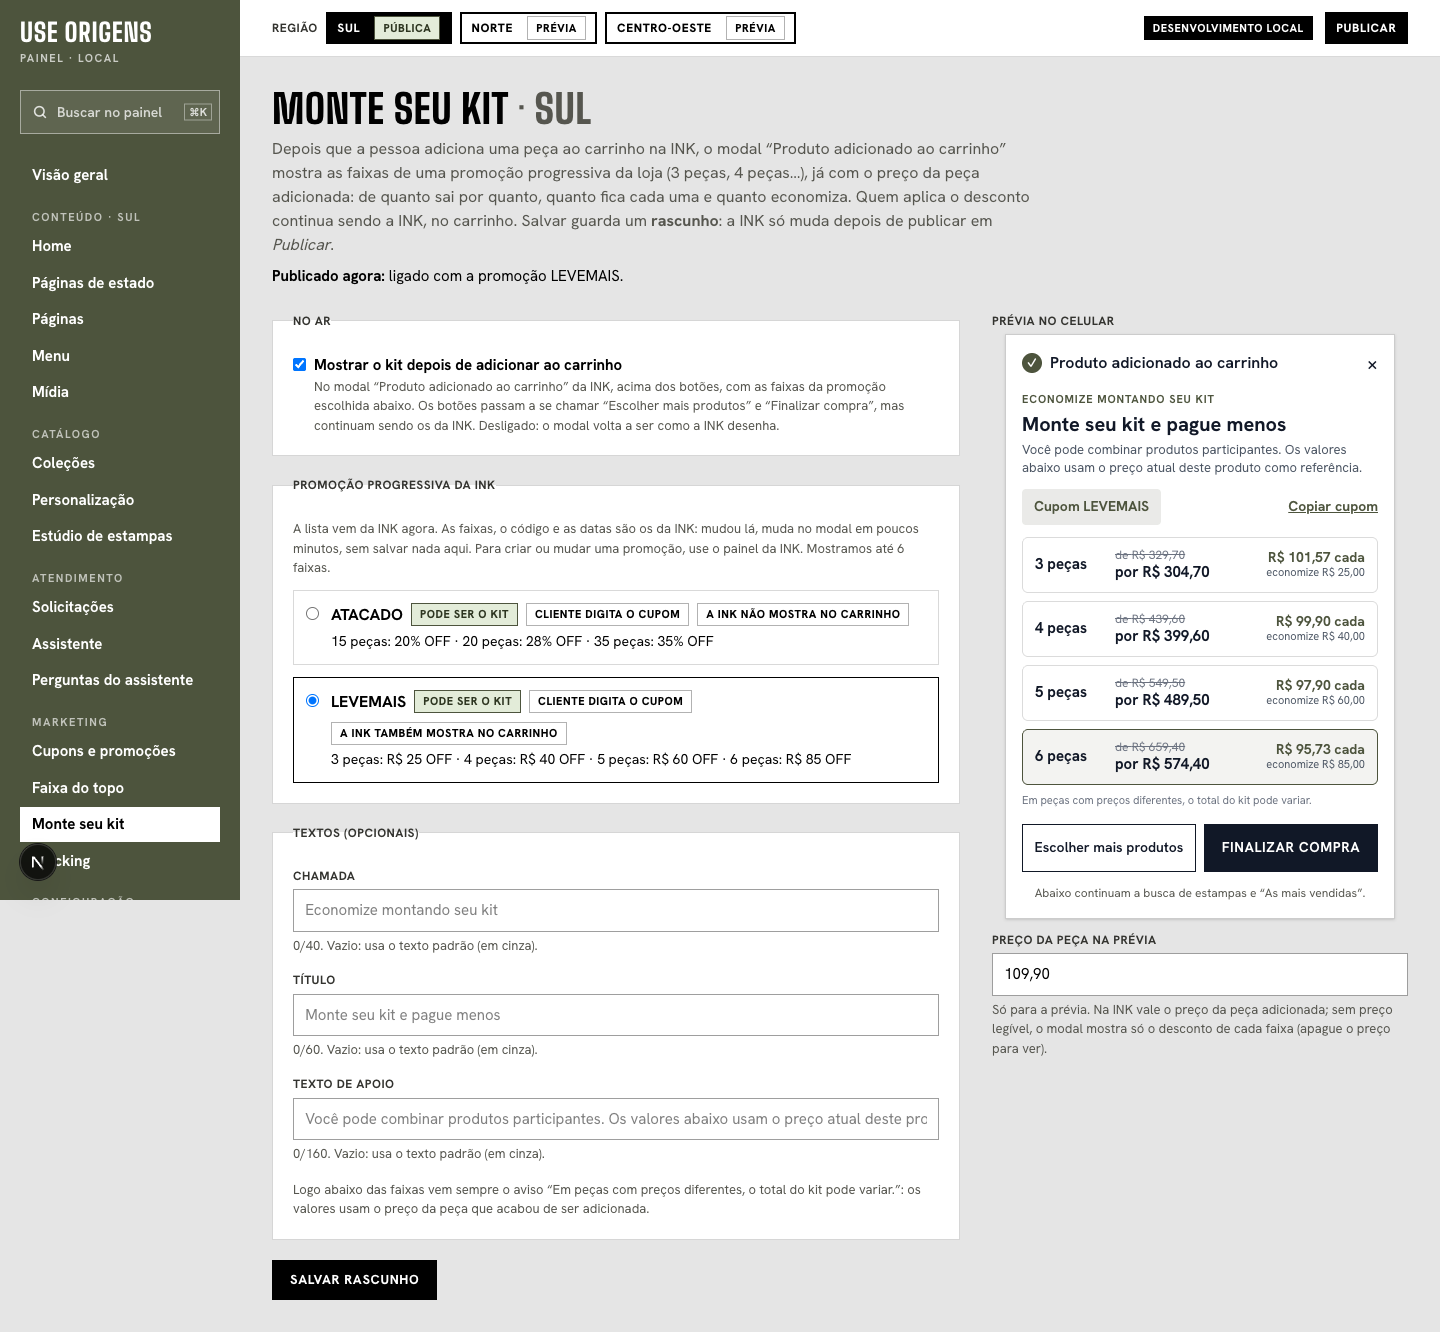
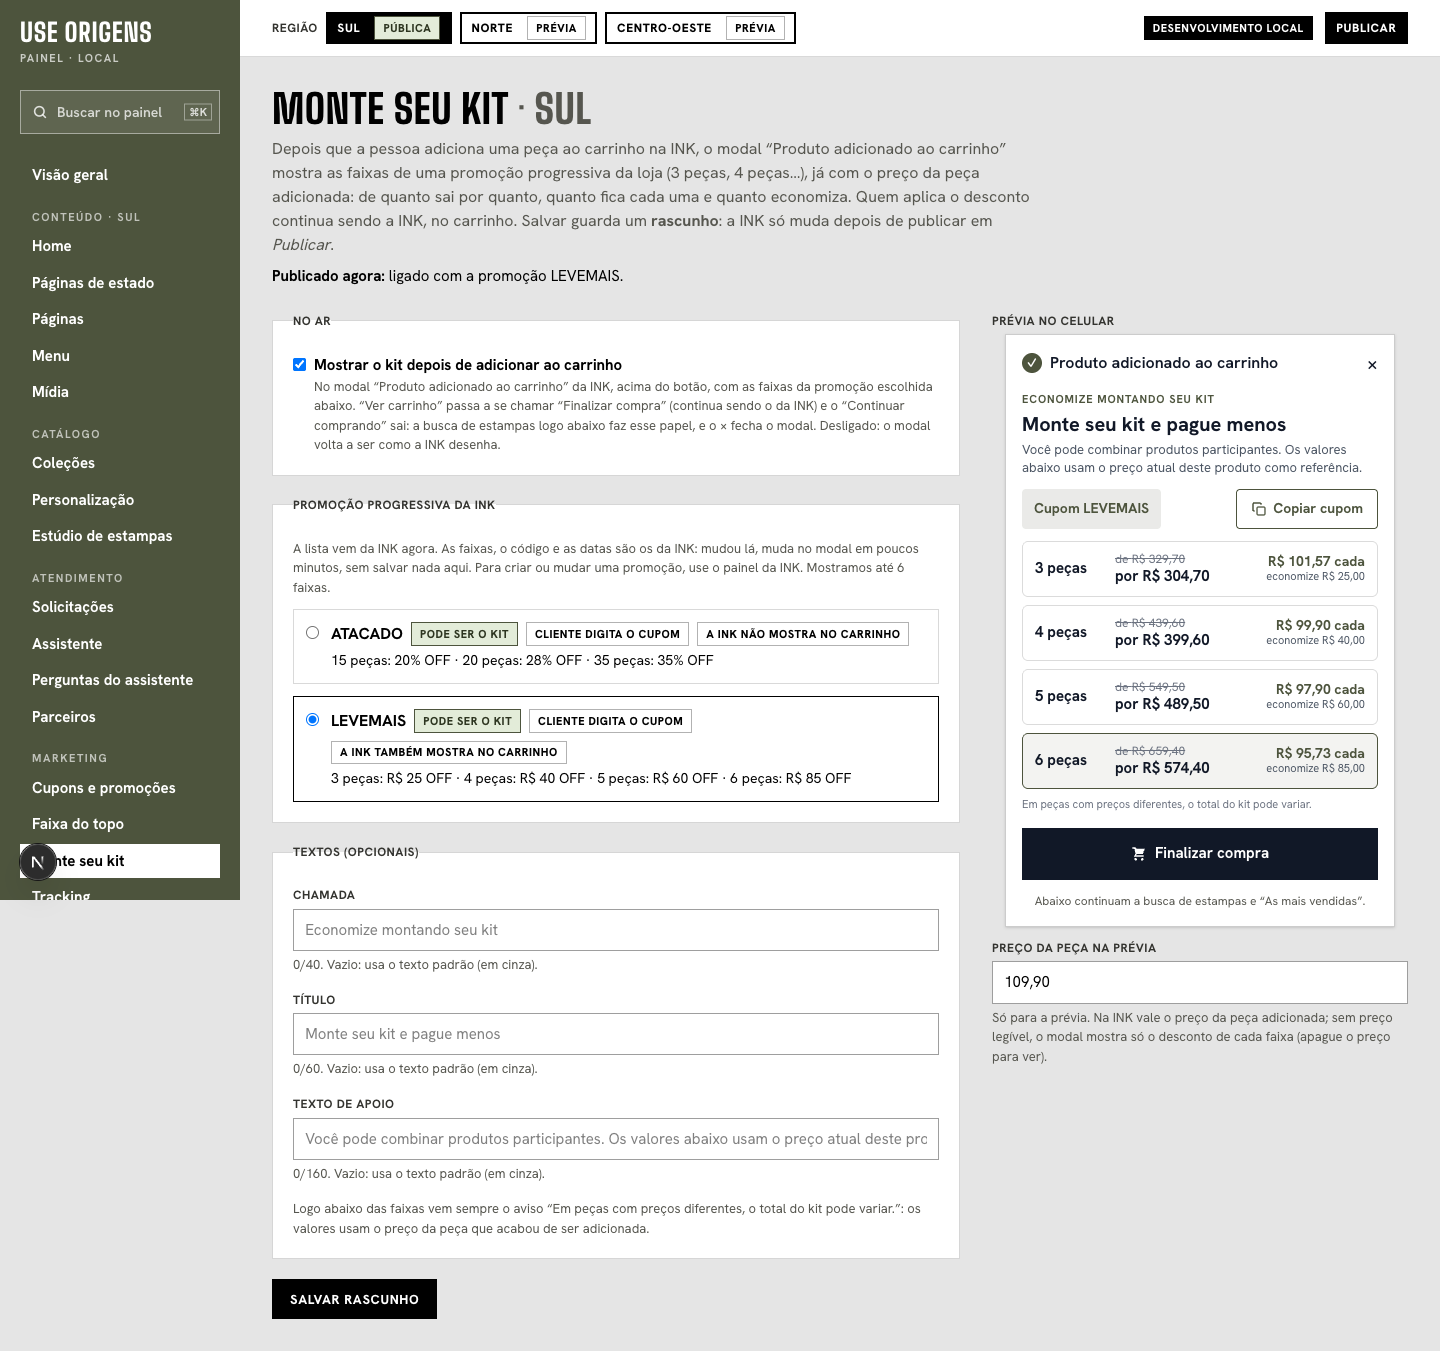
fix(storefront): prévia do kit com um botão só e "Copiar cupom" como botão
Acompanha o Worker (worker-lojas #46): "Continuar comprando" sai do modal enquanto
há kit (a busca logo abaixo faz esse papel), "Finalizar compra" na largura toda e
"Copiar cupom" com cara de botão. Texto do painel e doc atualizados.

diff --git a/src/components/admin/PostAddKitPreview.tsx b/src/components/admin/PostAddKitPreview.tsx
@@ -21,11 +21,16 @@ export function PostAddKitPreview({ eyebrow, title, lead, code, auto, kind, tier
         <p className="text-[0.6875rem] font-bold uppercase tracking-[0.08em]" style={{ color: accent }}>{eyebrow}</p>
         <p className="mt-1 text-[1.25rem] font-bold leading-tight">{title}</p>
         <p className="mt-1 text-[0.8125rem] leading-snug text-[#4b5563]">{lead}</p>
-        <div className="mt-3 flex items-center justify-between gap-2">
-          <span className="inline-flex min-h-9 items-center rounded-[4px] px-3 text-[0.875rem] font-bold" style={{ background: `color-mix(in srgb, ${accent} 12%, #fff)`, color: accent }}>
+        <div className="mt-3 flex flex-wrap items-center justify-between gap-2">
+          <span className="inline-flex min-h-10 items-center rounded-[4px] px-3 text-[0.875rem] font-bold" style={{ background: `color-mix(in srgb, ${accent} 12%, #fff)`, color: accent }}>
             {auto ? "Desconto aplicado no carrinho" : <>Cupom {code}</>}
           </span>
-          {!auto && <span className="text-[0.875rem] font-bold underline" style={{ color: accent }}>Copiar cupom</span>}
+          {!auto && (
+            <span className="inline-flex min-h-10 items-center gap-1.5 rounded-[4px] border-[1.5px] bg-white px-3.5 text-[0.875rem] font-bold" style={{ borderColor: accent, color: accent }}>
+              <svg aria-hidden="true" viewBox="0 0 24 24" width="16" height="16" fill="none" stroke="currentColor" strokeWidth="2" strokeLinecap="round" strokeLinejoin="round"><rect x="9" y="9" width="12" height="12" rx="2" /><path d="M5 15H4a1 1 0 0 1-1-1V4a1 1 0 0 1 1-1h10a1 1 0 0 1 1 1v1" /></svg>
+              Copiar cupom
+            </span>
+          )}
         </div>
         <ol className="mt-3 space-y-2" data-testid="kit-preview-tiers">
           {shown.map((t, i) => {
@@ -55,9 +60,11 @@ export function PostAddKitPreview({ eyebrow, title, lead, code, auto, kind, tier
         <p className="mt-2 text-[0.6875rem] leading-snug text-[#6b7280]">Em peças com preços diferentes, o total do kit pode variar.</p>
       </div>
 
-      <div className="mt-4 grid grid-cols-2 gap-2">
-        <span className="flex min-h-12 items-center justify-center border border-[#111827] px-2 text-center text-[0.875rem] font-semibold">Escolher mais produtos</span>
-        <span className="flex min-h-12 items-center justify-center bg-[#111827] px-2 text-center text-[0.875rem] font-bold uppercase tracking-[0.04em] text-white">Finalizar compra</span>
+      <div className="mt-4">
+        <span className="flex min-h-[52px] items-center justify-center gap-2 bg-[#111827] px-3 text-center text-[0.9375rem] font-bold leading-tight text-white">
+          <svg aria-hidden="true" viewBox="0 0 24 24" width="16" height="16" fill="currentColor"><path d="M7 18a2 2 0 1 0 0 4 2 2 0 0 0 0-4Zm10 0a2 2 0 1 0 0 4 2 2 0 0 0 0-4ZM5.2 4H2V2h4.8l1 2H21l-3.5 8H8.6l-1.1 2H19v2H4.2l2.6-4.7L5.2 4Z" /></svg>
+          Finalizar compra
+        </span>
       </div>
       <p className="a-muted mt-3 text-center text-[0.75rem]">Abaixo continuam a busca de estampas e “As mais vendidas”.</p>
     </div>

diff --git a/src/components/admin/PostAddKitEditor.tsx b/src/components/admin/PostAddKitEditor.tsx
@@ -44,8 +44,9 @@ export function PostAddKitEditor({ region, config, promotions, inkError, now, re
             <span>
               <strong>Mostrar o kit depois de adicionar ao carrinho</strong>
               <span className="a-muted block text-[0.8125rem]">
-                No modal “Produto adicionado ao carrinho” da INK, acima dos botões, com as faixas da promoção escolhida abaixo. Os botões passam a se chamar
-                “Escolher mais produtos” e “Finalizar compra”, mas continuam sendo os da INK. Desligado: o modal volta a ser como a INK desenha.
+                No modal “Produto adicionado ao carrinho” da INK, acima do botão, com as faixas da promoção escolhida abaixo. “Ver carrinho” passa a se chamar
+                “Finalizar compra” (continua sendo o da INK) e o “Continuar comprando” sai: a busca de estampas logo abaixo faz esse papel, e o × fecha o
+                modal. Desligado: o modal volta a ser como a INK desenha.
               </span>
             </span>
           </label>

diff --git a/docs/storefront/kit-pos-adicao.md b/docs/storefront/kit-pos-adicao.md
@@ -1,9 +1,10 @@
 # Monte seu kit (depois de adicionar ao carrinho)
 
 No modal **"Produto adicionado ao carrinho"** da INK, acima dos botões, as faixas de **uma promoção progressiva da INK** escolhida no painel, já com o
-preço da peça que acabou de ser adicionada: de quanto sai por quanto, quanto fica cada peça e quanto economiza. O código vem com "Copiar cupom". Os
-botões nativos passam a se chamar **"Escolher mais produtos"** e **"Finalizar compra"**, lado a lado; por baixo continuam sendo os da INK (fechar o
-modal e abrir o carrinho, onde o cliente cola o cupom). A busca de estampas e "As mais vendidas" seguem abaixo.
+preço da peça que acabou de ser adicionada: de quanto sai por quanto, quanto fica cada peça e quanto economiza. O código vem com o botão "Copiar cupom".
+Abaixo, um botão só: "Ver carrinho" passa a se chamar **"Finalizar compra"** (continua sendo o da INK: abre o carrinho, onde o cliente cola o cupom) e o
+"Continuar comprando" sai enquanto há kit, porque a busca de estampas logo abaixo faz esse papel (o × fecha o modal). A busca e "As mais vendidas" seguem
+abaixo.
 
 ```
 INK (promoção progressiva: código, faixas, datas)
